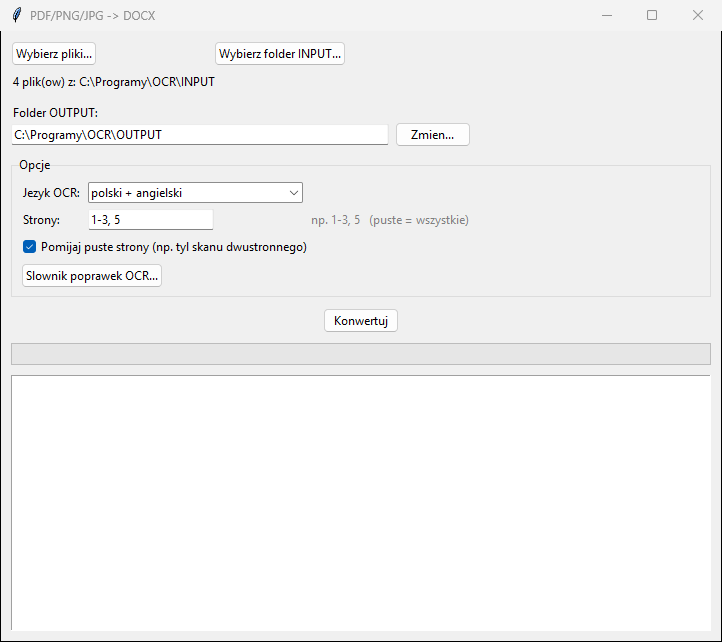
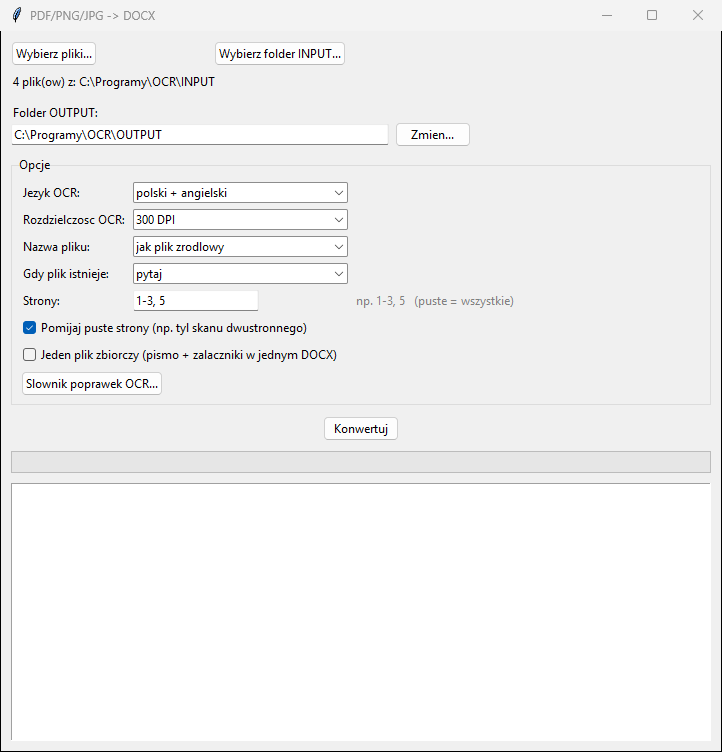
Opcje: plik zbiorczy, nazwa wyniku, nadpisywanie, 400 DPI
- Jeden plik zbiorczy: wybrane pliki laczone w jeden PDF (zdjecia na
  stronach szerokosci A4), potem zwykla konwersja; nazwa jak pierwszy plik
- Nazwa wyniku: jak zrodlo / z data / z dopiskiem _OCR
- Gdy plik istnieje: pytaj (jedno pytanie przed startem) / nadpisz /
  dopisz numer (2)
- Rozdzielczosc OCR: 300 / 400 DPI
- Pliki wybrane recznie sortowane alfabetycznie (przewidywalna kolejnosc)
- Selftest, README, TODO, zrzut okna

diff --git a/pdf2doc.py b/pdf2doc.py
@@ -5,7 +5,8 @@ Obrazy i zeskanowane PDF-y przechodza przez OCR (Tesseract), z ktorego
 program sam sklada DOCX (akapity, wciecia, jedna czcionka).
 
 Okienko: wskaz pliki albo folder INPUT, wskaz OUTPUT, klikaj Konwertuj.
-Opcje w okienku: jezyk OCR, zakres stron, pomijanie pustych stron.
+Opcje w okienku: jezyk i rozdzielczosc OCR, zakres stron, pomijanie pustych
+stron, nazwa wyniku, nadpisywanie, jeden plik zbiorczy.
 Konsola: python pdf2doc.py INPUT_folder OUTPUT_folder
 Test:    python pdf2doc.py --selftest
 """
@@ -17,9 +18,11 @@ import re
 import shutil
 import subprocess
 import sys
+import tempfile
 import threading
 import tkinter as tk
 from collections import defaultdict
+from datetime import date
 from pathlib import Path
 from tkinter import filedialog, messagebox, ttk
 
@@ -93,6 +96,20 @@ LANGS = {
     "polski + angielski + niemiecki": "pol+eng+deu",
     "polski + angielski + ukrainski": "pol+eng+ukr",
 }
+DPIS = {"300 DPI": 300, "400 DPI (drobny druk)": 400}
+# nazwa wyniku: {0} = nazwa zrodla, {1} = dzisiejsza data
+NAMING = {"jak plik zrodlowy": "{0}", "z data (pismo_2026-10-06)": "{0}_{1:%Y-%m-%d}",
+          "z dopiskiem _OCR": "{0}_OCR"}
+OVERWRITE = {"pytaj": "ask", "nadpisz": "overwrite", "dopisz numer (2)": "number"}
+
+
+def target(out_dir: Path, stem: str, naming: str = "{0}", overwrite: str = "overwrite") -> Path:
+    """Sciezka wyniku; przy overwrite='number' zajeta nazwa dostaje ' (2)', ' (3)'..."""
+    base = naming.format(stem, date.today())
+    path, n = out_dir / f"{base}.docx", 2
+    while overwrite == "number" and path.exists():
+        path, n = out_dir / f"{base} ({n}).docx", n + 1
+    return path
 
 
 def parse_pages(spec: str, count: int) -> list[int]:
@@ -118,7 +135,7 @@ def parse_pages(spec: str, count: int) -> list[int]:
     return sorted(pages)
 
 
-def _ocr_lines(png_bytes: bytes, scale: float, lang: str = "pol+eng") -> list[dict]:
+def _ocr_lines(png_bytes: bytes, scale: float, lang: str = "pol+eng", dpi: int = DPI) -> list[dict]:
     """OCR jednego obrazu -> linie tekstu {x0, x1, y0, y1, text} w punktach.
 
     Jezyk bierzemy z wlasnego folderu tessdata/ (przenosnie, bez uprawnien
@@ -127,7 +144,7 @@ def _ocr_lines(png_bytes: bytes, scale: float, lang: str = "pol+eng") -> list[di
     """
     env = {**os.environ, "TESSDATA_PREFIX": str(TESSDATA_DIR)}
     out = subprocess.run(
-        [find_tesseract(), "-", "-", "-l", lang, "--dpi", str(DPI), "tsv"],
+        [find_tesseract(), "-", "-", "-l", lang, "--dpi", str(dpi), "tsv"],
         input=png_bytes, check=True, capture_output=True, env=env,
         creationflags=NO_WINDOW,
     ).stdout.decode("utf8")
@@ -230,7 +247,8 @@ def apply_fixes(text: str, fixes: dict[str, str]) -> str:
 
 
 def ocr_to_docx(src: Path, docx_path: Path, lang: str = "pol+eng",
-                pages_sel: list[int] | None = None, skip_blank: bool = True) -> None:
+                pages_sel: list[int] | None = None, skip_blank: bool = True,
+                dpi: int = DPI) -> None:
     """Skan/zdjecie -> DOCX z akapitami odtworzonymi z OCR (bez pdf2docx:
     z niewidocznego tekstu OCR robil losowe rozmiary czcionek i gubil bloki)."""
     from docx import Document
@@ -245,7 +263,7 @@ def ocr_to_docx(src: Path, docx_path: Path, lang: str = "pol+eng",
         a4 = 595.3 / page_w
         unit, page_w, page_h = zoom / a4, 595.3, page_h * a4
     else:
-        zoom = unit = DPI / 72
+        zoom = unit = dpi / 72
     fixes = load_fixes()  # czytany przy kazdym pliku - zmiany dzialaja bez restartu
     pages = []
     for no in range(len(doc)) if pages_sel is None else pages_sel:
@@ -254,7 +272,7 @@ def ocr_to_docx(src: Path, docx_path: Path, lang: str = "pol+eng",
             lines = _text_lines(page)
         else:
             png = page.get_pixmap(matrix=pymupdf.Matrix(zoom, zoom)).tobytes("png")
-            lines = _ocr_lines(png, unit, lang)
+            lines = _ocr_lines(png, unit, lang, dpi)
         if lines or not skip_blank:  # pusta strona = np. tyl skanu dwustronnego
             pages.append(_paragraphs(lines))
     doc.close()
@@ -296,21 +314,22 @@ def ocr_to_docx(src: Path, docx_path: Path, lang: str = "pol+eng",
     out.save(docx_path)
 
 
-def convert_one(src: Path, out_dir: Path, lang: str = "pol+eng",
-                pages: str = "", skip_blank: bool = True) -> Path:
+def convert_one(src: Path, out_dir: Path, lang: str = "pol+eng", pages: str = "",
+                skip_blank: bool = True, dpi: int = DPI, naming: str = "{0}",
+                overwrite: str = "overwrite") -> Path:
     """pages: zakres jak w okienku ('1-3, 5'; puste = wszystkie). Obrazy maja
     jedna strone, wiec zakres ich nie dotyczy."""
     out_dir.mkdir(parents=True, exist_ok=True)
-    docx = out_dir / f"{src.stem}.docx"
+    docx = target(out_dir, src.stem, naming, overwrite)
     if src.suffix.lower() in IMAGE_EXTS:
-        ocr_to_docx(src, docx, lang, None, skip_blank)
+        ocr_to_docx(src, docx, lang, None, skip_blank, dpi)
         return docx
     with pymupdf.open(src) as doc:
         sel = parse_pages(pages, len(doc))
         # skan = strona bez tekstu, ale z obrazem (pusta bez obrazu to nie skan)
         scan = any(not doc[i].get_text().strip() and doc[i].get_images() for i in sel)
     if scan:
-        ocr_to_docx(src, docx, lang, sel, skip_blank)
+        ocr_to_docx(src, docx, lang, sel, skip_blank, dpi)
         return docx
     # cyfrowy PDF: pdf2docx zachowuje uklad i tabele - najlepsza jakosc
     c = Converter(str(src))
@@ -321,11 +340,34 @@ def convert_one(src: Path, out_dir: Path, lang: str = "pol+eng",
     return docx
 
 
+def convert_merged(files: list[Path], out_dir: Path, pages: str = "", **kw) -> Path:
+    """Pismo + zalaczniki -> jeden DOCX nazwany jak pierwszy plik. Najpierw
+    jeden wspolny PDF (zdjecia na stronach szerokosci A4), potem zwykla konwersja.
+    ponytail: skan wsrod plikow = cala paczka przez OCR, wiec tabele z cyfrowych
+    PDF-ow ida jako tekst; osobne pliki, gdy tabele sa wazne."""
+    with tempfile.TemporaryDirectory() as td:
+        merged = Path(td) / f"{files[0].stem}.pdf"
+        out = pymupdf.open()
+        for f in files:
+            with pymupdf.open(f) as d:
+                if f.suffix.lower() in IMAGE_EXTS:
+                    with pymupdf.open("pdf", d.convert_to_pdf()) as img:
+                        r = img[0].rect
+                        page = out.new_page(width=595.3, height=r.height * 595.3 / r.width)
+                        page.show_pdf_page(page.rect, img, 0)
+                else:
+                    for i in parse_pages(pages, len(d)):
+                        out.insert_pdf(d, from_page=i, to_page=i)
+        out.save(merged)
+        out.close()
+        return convert_one(merged, out_dir, **kw)
+
+
 class App(tk.Tk):
     def __init__(self):
         super().__init__()
         self.title("PDF/PNG/JPG -> DOCX")
-        self.geometry("720x610")
+        self.geometry("720x720")
         self.files: list[Path] = []
         self.log_q: queue.Queue[str] = queue.Queue()
 
@@ -349,19 +391,30 @@ class App(tk.Tk):
         self.lang_var = tk.StringVar(value=next(iter(LANGS)))
         self.pages_var = tk.StringVar()
         self.blank_var = tk.BooleanVar(value=True)
-        ttk.Label(opt, text="Jezyk OCR:").grid(row=0, column=0, sticky="w")
-        ttk.Combobox(opt, textvariable=self.lang_var, values=list(LANGS), state="readonly",
-                     width=32).grid(row=0, column=1, sticky="w", padx=6)
-        ttk.Label(opt, text="Strony:").grid(row=1, column=0, sticky="w", pady=(6, 0))
-        ttk.Entry(opt, textvariable=self.pages_var, width=20).grid(row=1, column=1, sticky="w",
-                                                                    padx=6, pady=(6, 0))
+        self.merge_var = tk.BooleanVar(value=False)
+        self.dpi_var = tk.StringVar(value=next(iter(DPIS)))
+        self.naming_var = tk.StringVar(value=next(iter(NAMING)))
+        self.overwrite_var = tk.StringVar(value=next(iter(OVERWRITE)))
+        for row, (label, var, values) in enumerate((
+                ("Jezyk OCR:", self.lang_var, LANGS),
+                ("Rozdzielczosc OCR:", self.dpi_var, DPIS),
+                ("Nazwa pliku:", self.naming_var, NAMING),
+                ("Gdy plik istnieje:", self.overwrite_var, OVERWRITE))):
+            ttk.Label(opt, text=label).grid(row=row, column=0, sticky="w", pady=(0, 6))
+            ttk.Combobox(opt, textvariable=var, values=list(values), state="readonly",
+                         width=32).grid(row=row, column=1, sticky="w", padx=6, pady=(0, 6))
+        ttk.Label(opt, text="Strony:").grid(row=4, column=0, sticky="w")
+        ttk.Entry(opt, textvariable=self.pages_var, width=20).grid(row=4, column=1, sticky="w", padx=6)
         ttk.Label(opt, text="np. 1-3, 5   (puste = wszystkie)", foreground="gray").grid(
-            row=1, column=2, sticky="w", pady=(6, 0))
+            row=4, column=2, sticky="w")
         ttk.Checkbutton(opt, text="Pomijaj puste strony (np. tyl skanu dwustronnego)",
-                        variable=self.blank_var).grid(row=2, column=0, columnspan=3, sticky="w",
+                        variable=self.blank_var).grid(row=5, column=0, columnspan=3, sticky="w",
+                                                      pady=(6, 0))
+        ttk.Checkbutton(opt, text="Jeden plik zbiorczy (pismo + zalaczniki w jednym DOCX)",
+                        variable=self.merge_var).grid(row=6, column=0, columnspan=3, sticky="w",
                                                       pady=(6, 0))
         ttk.Button(opt, text="Slownik poprawek OCR...", command=self.edit_fixes).grid(
-            row=3, column=0, columnspan=2, sticky="w", pady=(6, 0))
+            row=7, column=0, columnspan=2, sticky="w", pady=(6, 0))
 
         self.btn = ttk.Button(self, text="Konwertuj", command=self.start)
         self.btn.pack(pady=10)
@@ -393,7 +446,8 @@ class App(tk.Tk):
             filetypes=[("PDF/PNG/JPG", "*.pdf *.png *.jpg *.jpeg"), ("Wszystkie", "*.*")],
         )
         if f:
-            self.load([Path(x) for x in f], "wybor reczny")
+            # alfabetycznie - okno wyboru oddaje pliki w kolejnosci klikania
+            self.load(sorted(Path(x) for x in f), "wybor reczny")
 
     def pick_folder(self):
         d = filedialog.askdirectory(title="Folder ze zrodlowymi plikami")
@@ -417,27 +471,42 @@ class App(tk.Tk):
             messagebox.showwarning("PDF -> DOCX", "Najpierw wskaz pliki albo folder.")
             return
         opts = {"lang": LANGS[self.lang_var.get()], "pages": self.pages_var.get(),
-                "skip_blank": self.blank_var.get()}
+                "skip_blank": self.blank_var.get(), "dpi": DPIS[self.dpi_var.get()],
+                "naming": NAMING[self.naming_var.get()],
+                "overwrite": OVERWRITE[self.overwrite_var.get()]}
         try:  # literowka w zakresie: komunikat od razu, nie przy kazdym pliku
             parse_pages(opts["pages"], 10**6)
         except ValueError as e:
             messagebox.showwarning("PDF -> DOCX", str(e))
             return
+        merge = self.merge_var.get() and len(self.files) > 1
+        out_dir = Path(self.out_var.get())
+        if opts["overwrite"] == "ask":  # jedno pytanie na cala paczke, przed startem
+            names = self.files[:1] if merge else self.files
+            taken = [t for f in names if (t := target(out_dir, f.stem, opts["naming"])).exists()]
+            answer = taken and messagebox.askyesnocancel(
+                "PDF -> DOCX", f"W folderze OUTPUT jest juz {len(taken)} z tych plikow, "
+                f"np. {taken[0].name}.\n\nTak = nadpisz\nNie = zapisz obok z numerem (2)")
+            if answer is None:
+                return
+            opts["overwrite"] = "number" if answer is False else "overwrite"
         self.btn.config(state="disabled")
         self.log.delete("1.0", "end")
-        self.bar.config(value=0, maximum=len(self.files))
-        threading.Thread(target=self.work, args=(list(self.files), Path(self.out_var.get()), opts),
-                         daemon=True).start()
+        jobs = [list(self.files)] if merge else list(self.files)
+        self.bar.config(value=0, maximum=len(jobs))
+        threading.Thread(target=self.work, args=(jobs, out_dir, opts), daemon=True).start()
 
     def work(self, files, out_dir, opts):
         ok = 0
         for i, pdf in enumerate(files, 1):
+            merged = isinstance(pdf, list)  # plik zbiorczy: lista plikow
+            name = f"{pdf[0].name} + {len(pdf) - 1} zal." if merged else pdf.name
             try:
-                docx = convert_one(pdf, out_dir, **opts)
+                docx = (convert_merged if merged else convert_one)(pdf, out_dir, **opts)
                 ok += 1
-                self.log_q.put(f"[{i}/{len(files)}] OK   {pdf.name} -> {docx.name}")
+                self.log_q.put(f"[{i}/{len(files)}] OK   {name} -> {docx.name}")
             except Exception as e:  # jeden zly plik nie moze zatrzymac reszty
-                self.log_q.put(f"[{i}/{len(files)}] BLAD {pdf.name}: {e}")
+                self.log_q.put(f"[{i}/{len(files)}] BLAD {name}: {e}")
             self.log_q.put(f"__progress__{i}")
         self.log_q.put(f"__done__Gotowe: {ok}/{len(files)} przekonwertowanych -> {out_dir}")
 
@@ -456,7 +525,6 @@ class App(tk.Tk):
 
 
 def selftest():
-    import tempfile
     import zipfile
 
     import pymupdf
@@ -558,6 +626,27 @@ def selftest():
             x = zipfile.ZipFile(convert_one(td / "duplex.pdf", td / "OUT", skip_blank=skip)
                                 ).read("word/document.xml").decode("utf8")
             assert x.count("<w:pageBreakBefore/>") == breaks, f"puste strony skip={skip}"
+
+        # opcje: nazwa wyniku i nadpisywanie
+        out_ = td / "NAZWY"
+        assert convert_one(src, out_, naming="{0}_OCR").name == "t_OCR.docx"
+        assert target(out_, "t", "{0}_{1:%Y-%m-%d}").name == f"t_{date.today():%Y-%m-%d}.docx"
+        assert convert_one(src, out_, naming="{0}_OCR", overwrite="number").name == "t_OCR (2).docx"
+        assert target(out_, "t", "{0}_OCR", "number").name == "t_OCR (3).docx"
+        assert convert_one(src, out_, naming="{0}_OCR").name == "t_OCR.docx", "nadpisz"
+
+        # opcje: rozdzielczosc 400 DPI
+        xml7 = zipfile.ZipFile(convert_one(td / "mix.pdf", out_, pages="2", dpi=400)
+                               ).read("word/document.xml").decode("utf8")
+        assert "777" in xml7, f"400 DPI: {xml7[:300]}"
+
+        # opcje: jeden plik zbiorczy (pismo + skan + zdjecie z EXIF), zakres stron
+        m = convert_merged([td / "mix.pdf", png, td / "foto.jpg"], td / "ZB", pages="1")
+        xml8 = zipfile.ZipFile(m).read("word/document.xml").decode("utf8")
+        assert m.name == "mix.docx" and len(list((td / "ZB").iterdir())) == 1
+        for word in ("przewodnie", "42", "4321"):
+            assert word in xml8, f"zbiorczy: brak {word}: {xml8[:300]}"
+        assert "777" not in xml8, "zbiorczy: zakres stron pominiety"
 
     # opcje: jezyki OCR - kazdy model musi byc w tessdata/
     for codes in LANGS.values():

diff --git a/README.md b/README.md
@@ -61,11 +61,20 @@ Wymaga Pythona 3.11–3.13 na PATH oraz internetu (jednorazowo, na pobranie bibl
 3. **Folder OUTPUT** to miejsce zapisu plików Worda. Zmienisz go przyciskiem **Zmień…**.
 4. Opcjonalnie, w ramce **Opcje**:
    - **Język OCR** — polski + angielski (domyślnie), tylko polski, z niemieckim albo z ukraińskim. Dotyczy skanów i zdjęć; język dobierz do pisma, bo np. bez niemieckiego „ß” i „ö” wychodzą jako krzaki.
+   - **Rozdzielczość OCR** — 300 DPI (domyślnie) albo 400 DPI przy drobnym druku (przypisy, regulaminy). 400 DPI pomaga tylko wtedy, gdy skan ma co najmniej taką rozdzielczość, a OCR trwa wtedy dłużej. Na zwykłych pismach 300 DPI w zupełności wystarcza.
+   - **Nazwa pliku** — jak plik źródłowy (domyślnie), z dzisiejszą datą (`pismo_2026-10-06.docx`) albo z dopiskiem `_OCR` (`pismo_OCR.docx`).
+   - **Gdy plik istnieje** — co zrobić, gdy w OUTPUT jest już plik o tej nazwie:
+     - **pytaj** (domyślnie) — przed startem pojawia się jedno pytanie dla całej paczki: nadpisać czy zapisać obok z numerem;
+     - **nadpisz**;
+     - **dopisz numer** — powstaje `pismo (2).docx`, `pismo (3).docx` itd.
    - **Strony** — np. `1-3, 5` albo `4-` (od 4. do końca). Puste pole = wszystkie strony. Zakres dotyczy każdego wybranego PDF-a; strony spoza pliku są pomijane.
    - **Pomijaj puste strony** — domyślnie włączone (tył skanu dwustronnego nie trafia do Worda). Wyłącz, jeśli numeracja stron ma się zgadzać z oryginałem.
+   - **Jeden plik zbiorczy** — wszystkie wybrane pliki trafiają do jednego DOCX, w kolejności z listy, każdy od nowej strony. Plik nosi nazwę pierwszego pliku (zwykle pisma). Pliki są ułożone alfabetycznie, więc pismo zaczynające się od `1_` albo `a_` będzie pierwsze.
+     - Zakres stron dotyczy każdego PDF-a z osobna.
+     - Gdy wśród plików jest skan albo zdjęcie, całość idzie przez OCR, więc tabele z cyfrowych PDF-ów wychodzą jako zwykły tekst. Jeśli tabele są ważne, konwertuj pliki osobno.
    - **Słownik poprawek OCR…** — otwiera w Notatniku plik `poprawki.txt` (obok programu). Wpisz w nim słowa, które OCR stale myli w Twoich pismach, po jednym w linii: `Zyrardow => Żyrardów`. Zamieniane są całe słowa, z rozróżnieniem wielkich liter, tylko w skanach i zdjęciach. Zmiany działają od następnego pliku, bez restartu. Aktualizacja programu nie nadpisuje tego pliku.
 5. Kliknij **Konwertuj**. Pasek pokazuje postęp, a log wynik każdego pliku. Skany trwają dłużej (OCR zajmuje kilka sekund na stronę).
-6. Dla każdego pliku powstaje `nazwa.docx` w folderze OUTPUT. Oryginały nie są zmieniane.
+6. Dla każdego pliku powstaje `nazwa.docx` w folderze OUTPUT (albo jeden plik zbiorczy). Oryginały nie są zmieniane.
 
 Tryb konsolowy:
 

diff --git a/TODO.md b/TODO.md
@@ -61,12 +61,12 @@ Pole wyboru / lista w oknie, zapamiętywane między uruchomieniami
   (do wklejania w inne pismo).
 - [ ] **Podział stron**: każda strona od nowej strony (domyślnie) /
   ciągły tekst.
-- [ ] **Jeden plik zbiorczy** — wszystkie wybrane pliki do jednego DOCX
+- [x] **Jeden plik zbiorczy** — wszystkie wybrane pliki do jednego DOCX
   (np. pismo + załączniki).
-- [ ] **Nazwa pliku wyjściowego**: jak źródło (domyślnie) / z dopiskiem
+- [x] **Nazwa pliku wyjściowego**: jak źródło (domyślnie) / z dopiskiem
   daty / z dopiskiem `_OCR`.
-- [ ] **Nadpisywanie**: pytaj / nadpisz / dopisz numer `(2)`.
-- [ ] **Rozdzielczość OCR** (DPI): 300 (domyślnie) / 400 przy drobnym druku.
+- [x] **Nadpisywanie**: pytaj / nadpisz / dopisz numer `(2)`.
+- [x] **Rozdzielczość OCR** (DPI): 300 (domyślnie) / 400 przy drobnym druku.
 - [ ] **Usuń plik źródłowy z INPUT po udanej konwersji** (przeniesienie do
   `INPUT/zrobione/`, bez kasowania).
 
